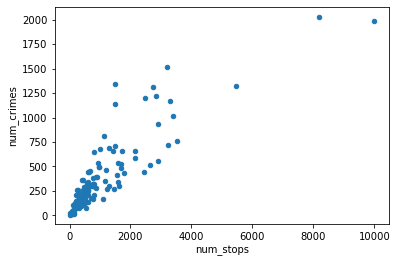
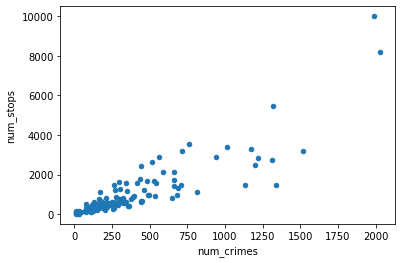
fixed regressions
regression formula was wrong. I was trying to predict crimes and not stops

diff --git a/Presentation plots/presentation_results_table2.html b/Presentation plots/presentation_results_table2.html
@@ -1,4 +1,4 @@
-Linear vs. Linear w/Race<br><table style="text-align:center"><tr><td colspan="3" style="border-bottom: 1px solid black"></td></tr><tr><td style="text-align:left"></td><td colspan="2"><em>Dependent variable:num_crimes</em></td></tr><tr><td style="text-align:left"></td><tr><td></td><td colspan="1">Linear</td><td colspan="1">Linear with Race</td></tr><tr><td style="text-align:left"></td><td>(1)</td><td>(2)</td></tr><tr><td colspan="3" style="border-bottom: 1px solid black"></td></tr><tr><td style="text-align:left">Constant</td><td>131.061<sup>***</sup></td><td>207.576<sup>***</sup></td></tr><tr><td style="text-align:left"></td><td>(21.399)</td><td>(46.529)</td></tr><tr><td style="text-align:left">Stops</td><td>0.237<sup>***</sup></td><td>0.235<sup>***</sup></td></tr><tr><td style="text-align:left"></td><td>(0.012)</td><td>(0.012)</td></tr><tr><td style="text-align:left">Pct. Non-White</td><td></td><td>-126.180<sup>*</sup></td></tr><tr><td style="text-align:left"></td><td></td><td>(68.310)</td></tr><td colspan="3" style="border-bottom: 1px solid black"></td></tr><tr><td style="text-align: left">Observations</td><td>124</td><td>124</td></tr><tr><td style="text-align: left">R<sup>2</sup></td><td>0.755</td><td>0.762</td></tr><tr><td style="text-align: left">Adjusted R<sup>2</sup></td><td>0.753</td><td>0.758</td></tr><tr><td style="text-align: left">Residual Std. Error</td><td>188.595 (df=122)</td><td>186.758 (df=121)</td></tr><tr><td style="text-align: left">F Statistic</td><td>376.067<sup>***</sup> (df=1; 122)</td><td>193.457<sup>***</sup> (df=2; 121)</td></tr><tr><td colspan="3" style="border-bottom: 1px solid black"></td></tr><tr><td style="text-align: left">Note:</td>
+Linear vs. Linear w/Race<br><table style="text-align:center"><tr><td colspan="3" style="border-bottom: 1px solid black"></td></tr><tr><td style="text-align:left"></td><td colspan="2"><em>Dependent variable:num_stops</em></td></tr><tr><td style="text-align:left"></td><tr><td></td><td colspan="1">Linear</td><td colspan="1">Linear with Race</td></tr><tr><td style="text-align:left"></td><td>(1)</td><td>(2)</td></tr><tr><td colspan="3" style="border-bottom: 1px solid black"></td></tr><tr><td style="text-align:left">Constant</td><td>-155.352<sup>*</sup></td><td>-322.417<sup>*</sup></td></tr><tr><td style="text-align:left"></td><td>(88.588)</td><td>(183.482)</td></tr><tr><td style="text-align:left">Crimes</td><td>3.185<sup>***</sup></td><td>3.215<sup>***</sup></td></tr><tr><td style="text-align:left"></td><td>(0.164)</td><td>(0.167)</td></tr><tr><td style="text-align:left">Pct. Non-White</td><td></td><td>265.310<sup></sup></td></tr><tr><td style="text-align:left"></td><td></td><td>(255.193)</td></tr><td colspan="3" style="border-bottom: 1px solid black"></td></tr><tr><td style="text-align: left">Observations</td><td>124</td><td>124</td></tr><tr><td style="text-align: left">R<sup>2</sup></td><td>0.755</td><td>0.757</td></tr><tr><td style="text-align: left">Adjusted R<sup>2</sup></td><td>0.753</td><td>0.753</td></tr><tr><td style="text-align: left">Residual Std. Error</td><td>691.350 (df=122)</td><td>691.121 (df=121)</td></tr><tr><td style="text-align: left">F Statistic</td><td>376.067<sup>***</sup> (df=1; 122)</td><td>188.698<sup>***</sup> (df=2; 121)</td></tr><tr><td colspan="3" style="border-bottom: 1px solid black"></td></tr><tr><td style="text-align: left">Note:</td>
  <td colspan="2" style="text-align: right">
   <sup>*</sup>p&lt;0.1;
   <sup>**</sup>p&lt;0.05;

diff --git a/presentation_results_table2.html b/presentation_results_table2.html
@@ -1,4 +1,4 @@
-Linear vs. Linear w/Race<br><table style="text-align:center"><tr><td colspan="3" style="border-bottom: 1px solid black"></td></tr><tr><td style="text-align:left"></td><td colspan="2"><em>Dependent variable:num_crimes</em></td></tr><tr><td style="text-align:left"></td><tr><td></td><td colspan="1">Linear</td><td colspan="1">Linear with Race</td></tr><tr><td style="text-align:left"></td><td>(1)</td><td>(2)</td></tr><tr><td colspan="3" style="border-bottom: 1px solid black"></td></tr><tr><td style="text-align:left">Constant</td><td>131.061<sup>***</sup></td><td>207.576<sup>***</sup></td></tr><tr><td style="text-align:left"></td><td>(21.399)</td><td>(46.529)</td></tr><tr><td style="text-align:left">Stops</td><td>0.237<sup>***</sup></td><td>0.235<sup>***</sup></td></tr><tr><td style="text-align:left"></td><td>(0.012)</td><td>(0.012)</td></tr><tr><td style="text-align:left">Pct. Non-White</td><td></td><td>-126.180<sup>*</sup></td></tr><tr><td style="text-align:left"></td><td></td><td>(68.310)</td></tr><td colspan="3" style="border-bottom: 1px solid black"></td></tr><tr><td style="text-align: left">Observations</td><td>124</td><td>124</td></tr><tr><td style="text-align: left">R<sup>2</sup></td><td>0.755</td><td>0.762</td></tr><tr><td style="text-align: left">Adjusted R<sup>2</sup></td><td>0.753</td><td>0.758</td></tr><tr><td style="text-align: left">Residual Std. Error</td><td>188.595 (df=122)</td><td>186.758 (df=121)</td></tr><tr><td style="text-align: left">F Statistic</td><td>376.067<sup>***</sup> (df=1; 122)</td><td>193.457<sup>***</sup> (df=2; 121)</td></tr><tr><td colspan="3" style="border-bottom: 1px solid black"></td></tr><tr><td style="text-align: left">Note:</td>
+Linear vs. Linear w/Race<br><table style="text-align:center"><tr><td colspan="3" style="border-bottom: 1px solid black"></td></tr><tr><td style="text-align:left"></td><td colspan="2"><em>Dependent variable:num_stops</em></td></tr><tr><td style="text-align:left"></td><tr><td></td><td colspan="1">Linear</td><td colspan="1">Linear with Race</td></tr><tr><td style="text-align:left"></td><td>(1)</td><td>(2)</td></tr><tr><td colspan="3" style="border-bottom: 1px solid black"></td></tr><tr><td style="text-align:left">Constant</td><td>-155.352<sup>*</sup></td><td>-322.417<sup>*</sup></td></tr><tr><td style="text-align:left"></td><td>(88.588)</td><td>(183.482)</td></tr><tr><td style="text-align:left">Crimes</td><td>3.185<sup>***</sup></td><td>3.215<sup>***</sup></td></tr><tr><td style="text-align:left"></td><td>(0.164)</td><td>(0.167)</td></tr><tr><td style="text-align:left">Pct. Non-White</td><td></td><td>265.310<sup></sup></td></tr><tr><td style="text-align:left"></td><td></td><td>(255.193)</td></tr><td colspan="3" style="border-bottom: 1px solid black"></td></tr><tr><td style="text-align: left">Observations</td><td>124</td><td>124</td></tr><tr><td style="text-align: left">R<sup>2</sup></td><td>0.755</td><td>0.757</td></tr><tr><td style="text-align: left">Adjusted R<sup>2</sup></td><td>0.753</td><td>0.753</td></tr><tr><td style="text-align: left">Residual Std. Error</td><td>691.350 (df=122)</td><td>691.121 (df=121)</td></tr><tr><td style="text-align: left">F Statistic</td><td>376.067<sup>***</sup> (df=1; 122)</td><td>188.698<sup>***</sup> (df=2; 121)</td></tr><tr><td colspan="3" style="border-bottom: 1px solid black"></td></tr><tr><td style="text-align: left">Note:</td>
  <td colspan="2" style="text-align: right">
   <sup>*</sup>p&lt;0.1;
   <sup>**</sup>p&lt;0.05;
